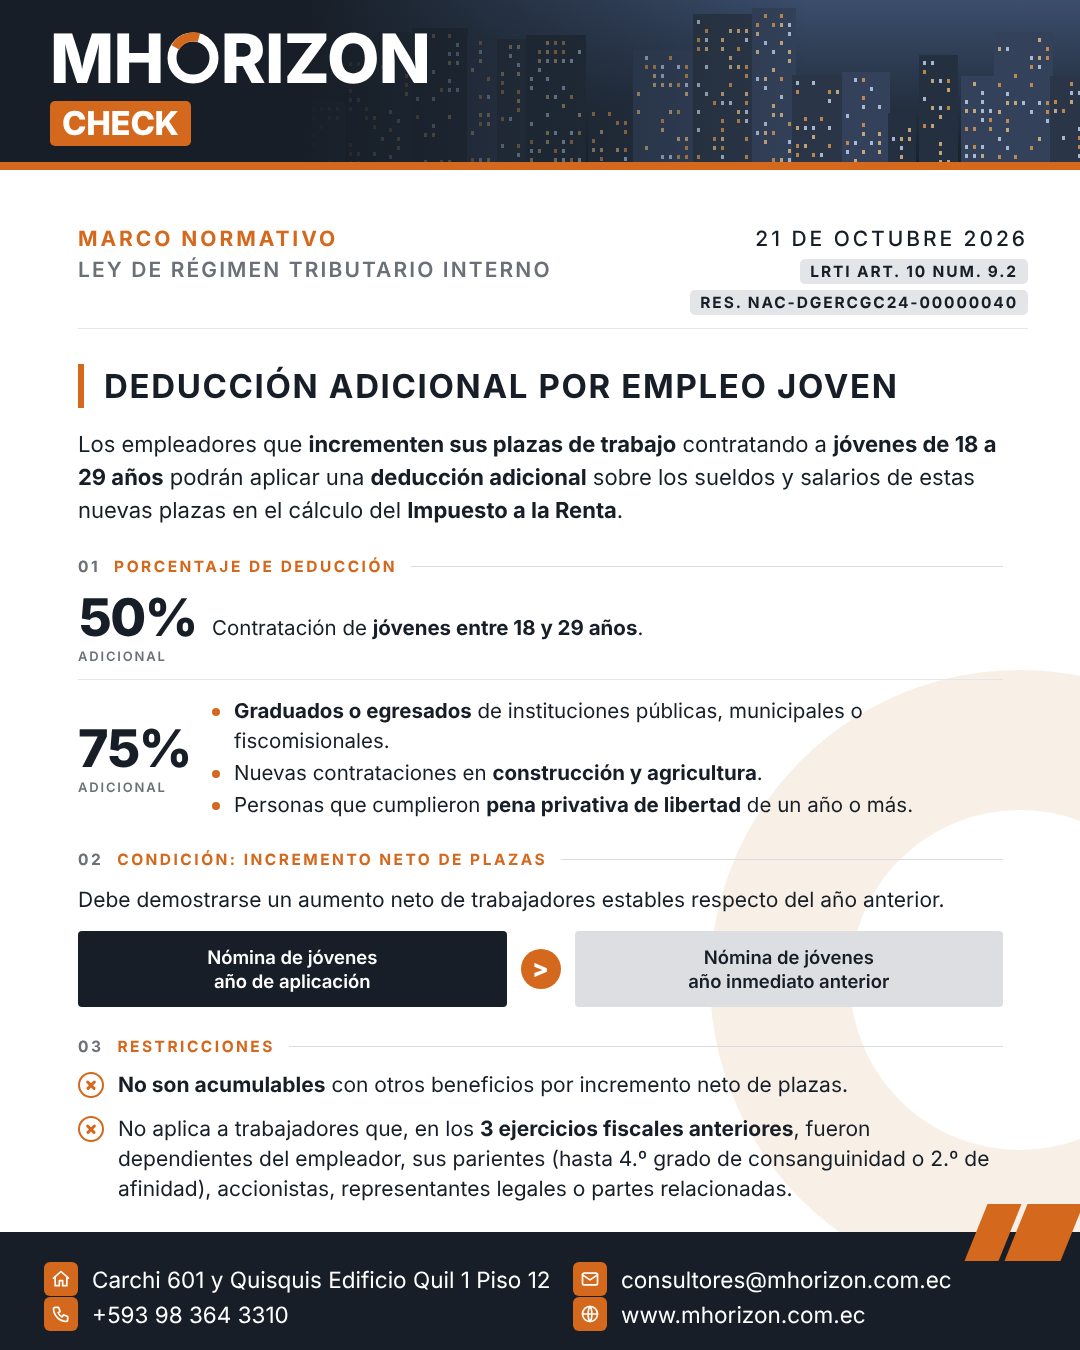
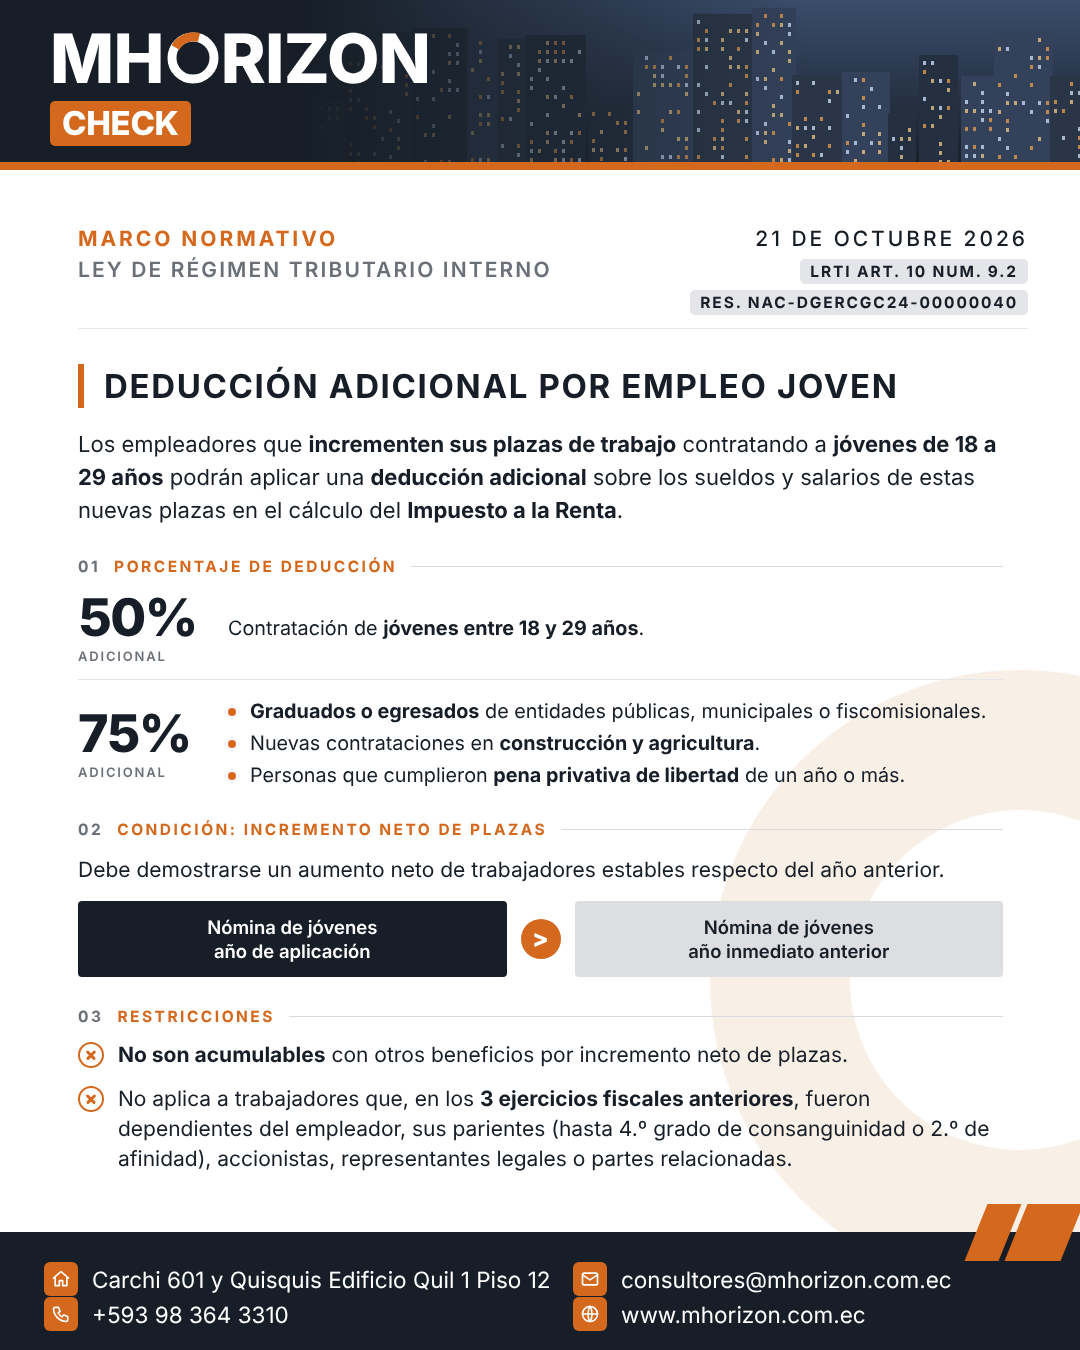
Ajuste de tipografía en v3 del informativo
Claude-Session: https://claude.ai/code/session_01AkPS8PbUXqJQ9Ha4uRRLLY

Changed region(s): [[0.0611, 0.4356, 0.9472, 0.9022]]

diff --git a/mhorizon-informativo/informativo-empleo-joven-v3.html b/mhorizon-informativo/informativo-empleo-joven-v3.html
@@ -55,7 +55,7 @@
   .eyebrow span{color:var(--muted)}
 
   /* 01 porcentajes */
-  .pr{display:grid;grid-template-columns:134px 1fr;align-items:center;padding:16px 0;border-bottom:1px solid #E3E5E8;font-size:20.5px;line-height:30px}
+  .pr{display:grid;grid-template-columns:150px 1fr;align-items:center;padding:16px 0;border-bottom:1px solid #E3E5E8;font-size:19.8px;line-height:30px}
   .pr:last-child{border-bottom:0;padding-bottom:0}
   .fig{font-weight:800;font-size:52px;line-height:1;letter-spacing:-.03em;color:var(--navy)}
   .fig small{display:block;font-weight:600;font-size:13px;letter-spacing:.14em;text-transform:uppercase;color:var(--muted);margin-top:6px}
@@ -571,7 +571,7 @@
       <div class="pr"><div class="fig">50%<small>adicional</small></div><div>Contratación de <b>jóvenes entre 18 y 29 años</b>.</div></div>
       <div class="pr"><div class="fig">75%<small>adicional</small></div>
         <ul>
-          <li><b>Graduados o egresados</b> de instituciones públicas, municipales o fiscomisionales.</li>
+          <li><b>Graduados o egresados</b> de entidades públicas, municipales o fiscomisionales.</li>
           <li>Nuevas contrataciones en <b>construcción y agricultura</b>.</li>
           <li>Personas que cumplieron <b>pena privativa de libertad</b> de un año o más.</li>
         </ul>
